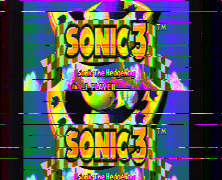
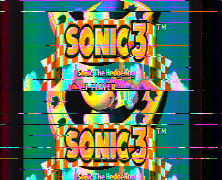
Somewhat pleasant color scheme

diff --git a/src/main.rs b/src/main.rs
@@ -131,7 +131,7 @@ impl framework::Example for Example {
         // let shift = std::env::var("SHIFT").unwrap_or("0.0".to_string()).parse::<f32>().unwrap();
 
         let carrier_freq = |x: usize| -> f32 {
-            (x as f32 + 7.7) * (2.0 * std::f32::consts::PI) * (3.58/41.66)
+            (x as f32 + 7.0) * (2.0 * std::f32::consts::PI) * (3.58/41.66)
         };
 
         fn vec_avg(v: &std::collections::VecDeque<f32>) -> f32 {
@@ -431,7 +431,7 @@ impl framework::Example for Example {
                                 .map(|y| (y * 100.) as u32) // two digit precision
                                 .collect::<Vec<_>>();
                             let i_amp_input = (i_amps.iter().max().unwrap() - i_amps.iter().min().unwrap()) as f32;
-                            let i_amp = num::clamp(i_amp_input / 90000., 0., 1.0);
+                            let i_amp = num::clamp(i_amp_input / 80000., 0., 1.0);
                             // let i_amp = 1.0;
                             let q_amps = samples.iter()
                                 .enumerate()
@@ -439,12 +439,12 @@ impl framework::Example for Example {
                                 .map(|y| (y * 100.) as u32) // two digit precision
                                 .collect::<Vec<_>>();
                             let q_amp_input = (q_amps.iter().max().unwrap() - q_amps.iter().min().unwrap()) as f32;
-                            let q_amp = num::clamp(q_amp_input / 90000., 0., 1.0);
+                            let q_amp = num::clamp(q_amp_input / 80000., 0., 1.0);
                             // let q_amp = 1.0;
 
                             println!("i_amp {:?} q_amp {:?}", i_amp_input, q_amp_input);
 
-                            let y_clamped = (num::clamp(y_sample, 0., 180.) / 180.);
+                            let y_clamped = (num::clamp(y_sample, 0., 140.) / 140.);
                             let i_clamped = (num::clamp(i_sample, -60., 60.) / 60.) * i_amp;
                             let q_clamped = (num::clamp(q_sample, -60., 60.) / 60.) * q_amp;
                             // println!("{:?}", (y_clamped, i_clamped, q_clamped));
@@ -458,7 +458,7 @@ impl framework::Example for Example {
                             // let rgb_matrix = matrix.dot(&con_matrix);
                             // println!("{:?}", rgb_matrix);
 
-                            let r = y_clamped + (0.9563 * i_clamped) + (0.6190 * q_clamped);
+                            let r = y_clamped + (2.4563 * i_clamped) + (1.6190 * q_clamped);
                             let g = y_clamped - (0.2721 * i_clamped) - (0.6474 * q_clamped);
                             let b = y_clamped - (1.1070 * i_clamped) + (1.7046 * q_clamped);
                             // println!("    rgb -----> {:?}", (r, g, b));
